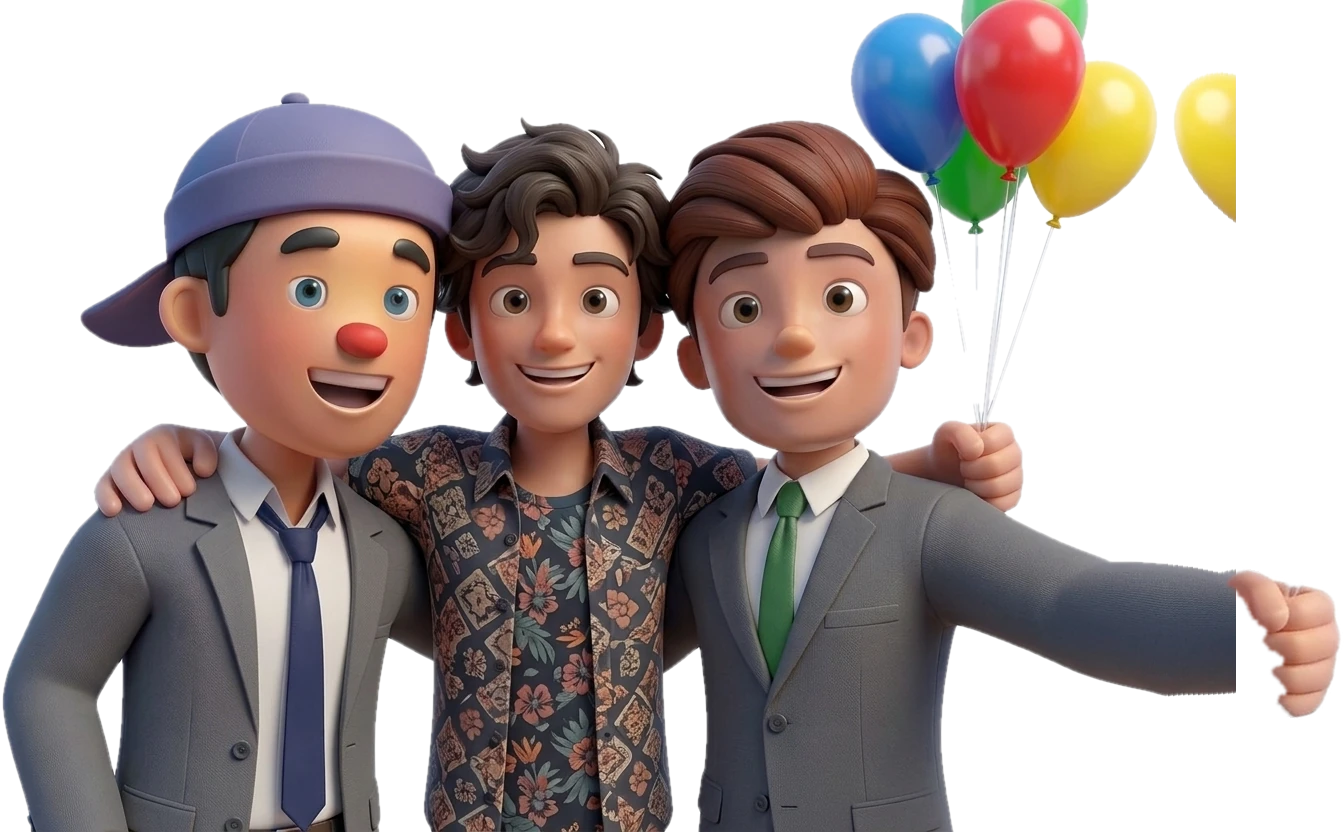
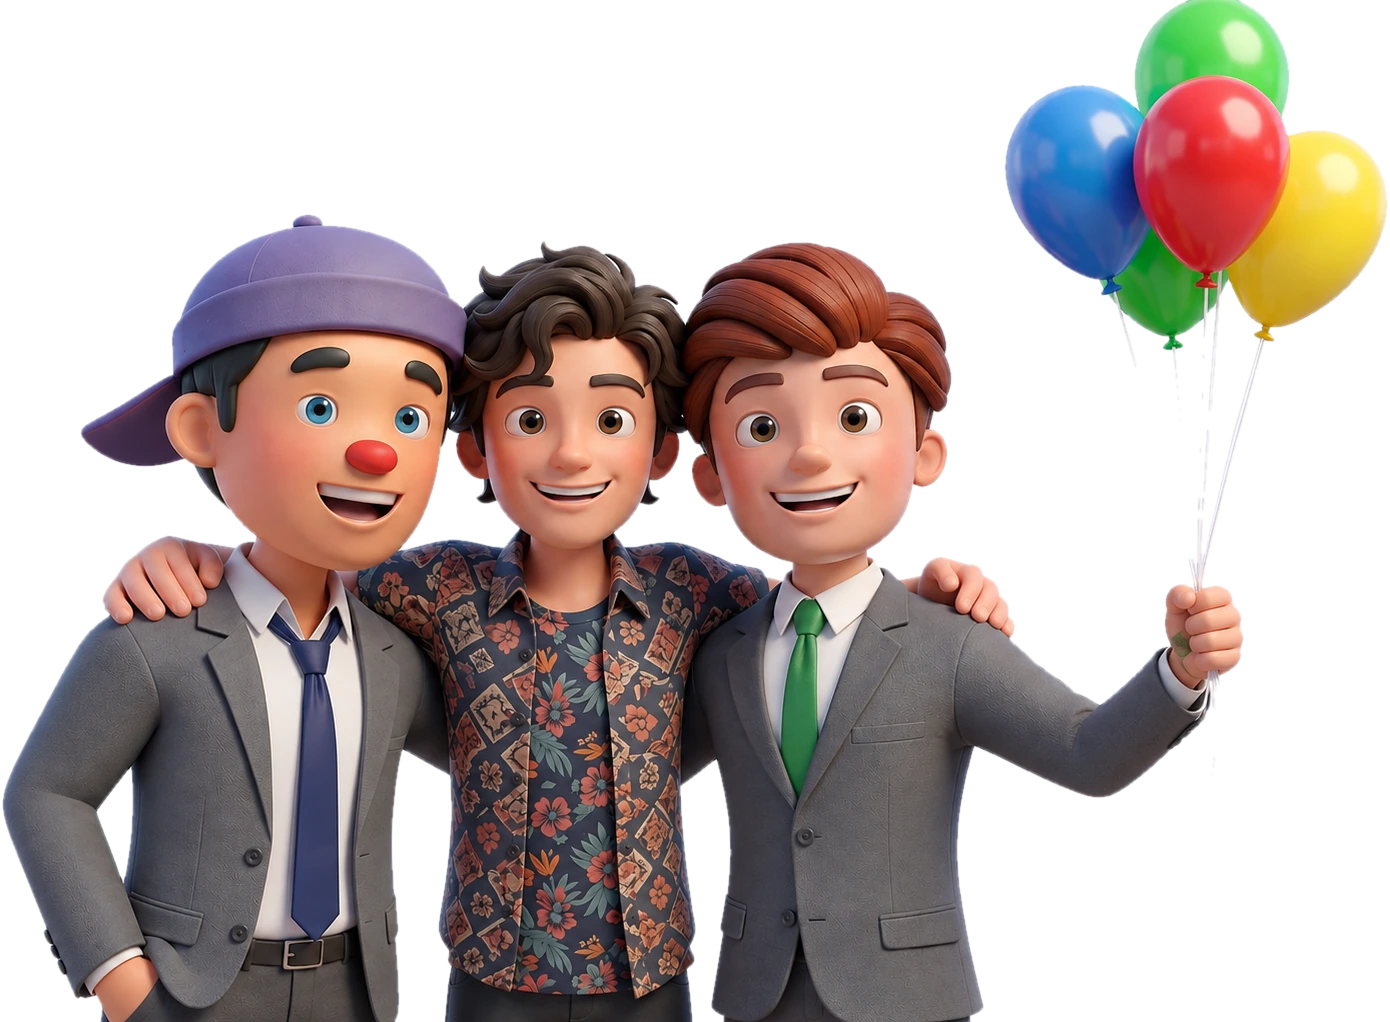
Domówka: new art (3 friends with balloons), centered, +20px right; main card and drop hero
Claude-Session: https://claude.ai/code/session_017XbPUHn37fqDv6KEidLMw8

diff --git a/public/index.html b/public/index.html
@@ -1713,15 +1713,15 @@ const FR=id=>id&&typeof S!=="undefined"&&S.con&&S.con.has(id)&&id!==me()?`<i cla
 const HG={run:["#d7ecff,#eaf6ff","max-width:none!important;width:100%!important",5],scoot:["#ffe9b8,#ffd9c2","max-width:none!important;width:204px",46],walk:["#ffd9e0,#ffe9d0","max-width:none!important;width:100%!important",42],sport:["#ffd9b8,#ffecc2","max-width:none!important;width:100%!important",0],house:["#e1c9ff,#ffc9e6","max-width:none!important;width:418px",23],biz:["#cfe0ff,#e6eeff","max-width:none!important;width:331px",40],gaming:["#c8c3ff,#dfe8ff","margin-left:16px",89],coffee:["#f3d9b8,#f6e6cf","margin-left:16px",50],cinema:["#f5b8c6,#ffd9c9","",66],club:["#e2d1fa,#fbd2ea","max-width:none!important;width:388px",28],food:["#ffd2a8,#ffe9b8","margin-left:6px;bottom:-85px!important;max-height:340px!important;max-width:min(400px,112%)!important",63],basket:["#ffcfa6,#ffe1c8","",42],fball:["#b9e8c8,#e6f3c5","",38],pool:["#b9e3f5,#d6f1f0","",53],pub:["#f3d9a0,#fbe9bf","",62],vball:["#c9e3ff,#ffe3b8","max-width:none!important;width:234px",42],gym:["#cfd8e8,#e4e1f2","",92],nye:["#b9c4f5,#ffe6a8","",10],xmas:["#bfe3c7,#ffd0cf","",18],trip:["#bfe3f0,#cdeedd","max-width:310px;max-height:205px;margin-left:12px;margin-bottom:-6px",41],other:["#dfe3f0,#efe9f7","max-width:none!important;width:100%!important",42],occ:["#ffd6e8,#fff0c2","max-width:none!important;width:400px",25],bike:["#c9ecd3,#e3f4c8","max-width:none!important;width:248px",50],gallery:["#ffd0c9,#d7e9d0","",42]};
 const PXH={run:197,scoot:238,walk:234,sport:170,house:225,biz:238,gaming:240,coffee:240,cinema:240,club:226,food:240,basket:236,fball:232,pool:240,pub:240,vball:166,gym:240,nye:184,xmas:184,trip:205,other:240,occ:223,bike:248,gallery:236};
 const PXO={run:[-12,11],scoot:[-33,8],walk:[-30,9],sport:[-12,12],house:[0,-12],biz:[-3,12],gaming:[-7,12],coffee:[2,12],cinema:[3,12],club:[-4,12],food:[-5,12],basket:[-9,12],fball:[-31,12],pool:[18,12],pub:[-2,12],vball:[16,4],gym:[5,12],nye:[-3,12],xmas:[-24,12],trip:[3,12],other:[-5,8],occ:[6,-4],bike:[-41,10],gallery:[-7,12]};
-const FH={"run":[218,12,0],"scoot":[232,12,0],"walk":[218,12,0],"sport":[181,12,0],"house":[141,35,13],"biz":[144,32,0],"other":[213,12,0],"occ":[229,12,0],"bike":[252,12,0],"gaming":[181,12,0],"coffee":[190,12,0],"cinema":[195,12,0],"club":[175,12,0],"basket":[177,12,-4],"fball":[189,12,0],"pool":[163,39,0],"vball":[163,13,-8],"gym":[175,12,0],"nye":[173,12,0],"trip":[239,12,0],"gallery":[205,12,0],"pub":[178,12,0],"xmas":[151,25,0],"ann":[200,12,0],"b18":[196,12,0],"occ2":[168,10,0]},FG={ann:"#ffd0dc,#ffe8d6",b18:"#cfe3ff,#e4ddff",occ2:"#ffd6e8,#fff0c2"},OCCK={eighteen:"b18",anniv:"ann",other:"occ2"};
+const FH={"run":[218,12,0],"scoot":[232,12,0],"walk":[218,12,0],"sport":[181,12,0],"house":[188,6,20,20],"biz":[144,32,0],"other":[213,12,0],"occ":[229,12,0],"bike":[252,12,0],"gaming":[181,12,0],"coffee":[190,12,0],"cinema":[195,12,0],"club":[175,12,0],"basket":[177,12,-4],"fball":[189,12,0],"pool":[163,39,0],"vball":[163,13,-8],"gym":[175,12,0],"nye":[173,12,0],"trip":[239,12,0],"gallery":[205,12,0],"pub":[178,12,0],"xmas":[151,25,0],"ann":[200,12,0],"b18":[196,12,0],"occ2":[168,10,0]},FG={ann:"#ffd0dc,#ffe8d6",b18:"#cfe3ff,#e4ddff",occ2:"#ffd6e8,#fff0c2"},OCCK={eighteen:"b18",anniv:"ann",other:"occ2"};
 const pxKey=d=>d.category==="occ"&&OCCK[d.occK]||d.category;
-const pxFrame=(d,st)=>{const k=pxKey(d),f=FH[k],hg=HG[d.category],h=PXH[d.category]||230,o=PXO[d.category]||[0,10];const im=f?`<img src="/e/f-${k}.webp?v=1117f" alt="" loading="lazy" decoding="async" style="height:${f[0]}px;top:${f[1]}px;margin-left:${f[2]}px">`:`<img src="/e/h-${d.category}.webp?v=1116h" alt="" loading="lazy" decoding="async" style="height:${h}px;top:${o[1]}px;margin-left:${o[0]}px">`;return`<div class="pfr" style="background:linear-gradient(135deg,${FG[k]||hg[0]})">${im}</div><div class="pxt"><h3>${esc(clean(d.title))}${d.repeat?" 🔁":""}</h3><div class="pxm"><span class="tm pcd" data-t="${st}" data-x="${d.expiresAt.toMillis()}"></span><span>🕒 ${when(st)}</span>${plc(d)?`<span>📍 ${esc(plc(d))}</span>`:""}</div></div>`};
+const pxFrame=(d,st)=>{const k=pxKey(d),f=FH[k],hg=HG[d.category],h=PXH[d.category]||230,o=PXO[d.category]||[0,10];const im=f?`<img src="/e/f-${k}.webp?v=1117g" alt="" loading="lazy" decoding="async" style="height:${f[0]}px;top:${f[1]}px;margin-left:${f[2]}px">`:`<img src="/e/h-${d.category}.webp?v=1116h" alt="" loading="lazy" decoding="async" style="height:${h}px;top:${o[1]}px;margin-left:${o[0]}px">`;return`<div class="pfr" style="background:linear-gradient(135deg,${FG[k]||hg[0]})">${im}</div><div class="pxt"><h3>${esc(clean(d.title))}${d.repeat?" 🔁":""}</h3><div class="pxm"><span class="tm pcd" data-t="${st}" data-x="${d.expiresAt.toMillis()}"></span><span>🕒 ${when(st)}</span>${plc(d)?`<span>📍 ${esc(plc(d))}</span>`:""}</div></div>`};
 const card=(d,P,link,role,hero)=>{const by=s=>P.filter(p=>p.status===s),nm=p=>esc(p.nickname)+FR(p.id)+(p.id===d.hostId?' <span class="stt">★</span>':"")+(p.status==="late"&&p.etaMin?` (${p.etaMin}m)`:"");
   const ln=(s,c)=>by(s).length?`<div class="ln">${avc("mini",avIdx(by(s)[0]))}<span><b class="pl ${c}">${sv(RI[s])}${by(s).length} ${STL(s)}</b> ${by(s).map(nm).join(", ")}</span></div>`:"";
   const [c1,c2]=thm(d),tg=role==="host"?t("roleHost")+(d.public?" 🌍":""):role==="inv"?(d.public?"🌍 "+t("pubTag"):t("roleInv")):role?t("roleMe",STL(role)):"";
   const hg=hero&&HG[d.category];
   if(hg){const k=pxKey(d),f=FH[k],H=f?Math.round(f[0]*1.4):0,low=f&&(k==="pool"||H-32<192),up=f?(low?Math.max(0,H-188):32):0;
-  const him=f?`<div class="hfc" style="inset:-${up}px 0 0 0!important"><img src="/e/f-${k}.webp?v=1117f" alt="" style="max-height:none!important;max-width:none!important;height:${H}px!important;width:auto;margin:0 0 0 ${Math.round(f[2]*1.4)}px!important;${low?"":"top:0!important;bottom:auto!important"}"></div>`:`<div class="hfc"><img src="/e/h-${d.category}.webp?v=1116h" alt="" style="${hg[1]}"></div>`;
+  const him=f?`<div class="hfc" style="inset:-${up}px 0 0 0!important"><img src="/e/f-${k}.webp?v=1117g" alt="" style="max-height:none!important;max-width:none!important;height:${H}px!important;width:auto;margin:0 0 0 ${f[3]!=null?f[3]:Math.round(f[2]*1.4)}px!important;${low?"":"top:0!important;bottom:auto!important"}"></div>`:`<div class="hfc"><img src="/e/h-${d.category}.webp?v=1116h" alt="" style="${hg[1]}"></div>`;
   return`<div class="drop dhero" style="--c1:${c1};--c2:${c2};margin-top:${f?up+14:Math.max(0,hg[2]+14)}px"><div class="hf" style="background:linear-gradient(135deg,${f&&FG[k]||hg[0]})">${him}</div><div class="hb"><div class="dh"><h2>${esc(clean(d.title))}${d.repeat?`<span class="rpi" title="${t("rep_"+d.repeat)}">🔁</span>`:""}</h2>${tg?`<span class="hrt">☆ ${tg}</span>`:""}</div><div class="hm"><div>${i14(CLK)}<span>${when(d.startsAt.toMillis())}</span></div><div>${i14(PN)}<span>${esc(plc(d))}</span></div></div><hr><span class="tm" data-t="${d.startsAt.toMillis()}" data-x="${d.expiresAt.toMillis()}"></span></div></div>`;}
   return`<div class="drop" style="--c1:${c1};--c2:${c2}" ${link?`onclick="go('/d/${d.id}')"`:""}><i class="gr"></i>${role?`<div class="ct"><span class="rt">${role?sv(RI[role]):""}${tg}</span>${role==="host"?`<span class="cpw"><button class="cp cpq" aria-label="QR" onclick="event.stopPropagation();qrDrop('${d.id}')">${QRI}</button><button class="cp" onclick="event.stopPropagation();shareDrop('${d.id}')">${sv(SI.share)}${t("shareShort")}</button></span>`:""}</div>`:""}<div class="dh"><span class="di">${ic(d.category,"#fff")}</span><h2>${esc(clean(d.title))}${d.repeat?`<span class="rpi" title="${t("rep_"+d.repeat)}">🔁</span>`:""}</h2></div><div class="mt">${i14(CLK)} ${when(d.startsAt.toMillis())} &nbsp;${i14(PN)} ${esc(plc(d))}</div><hr>${ln("in","cg")}${ln("late","cy")}${ln("out","cr")}${P.length?"":`<div class="mt">${t("nobody")}</div>`}<span class="tm" data-t="${d.startsAt.toMillis()}" data-x="${d.expiresAt.toMillis()}"></span></div>`};
 
